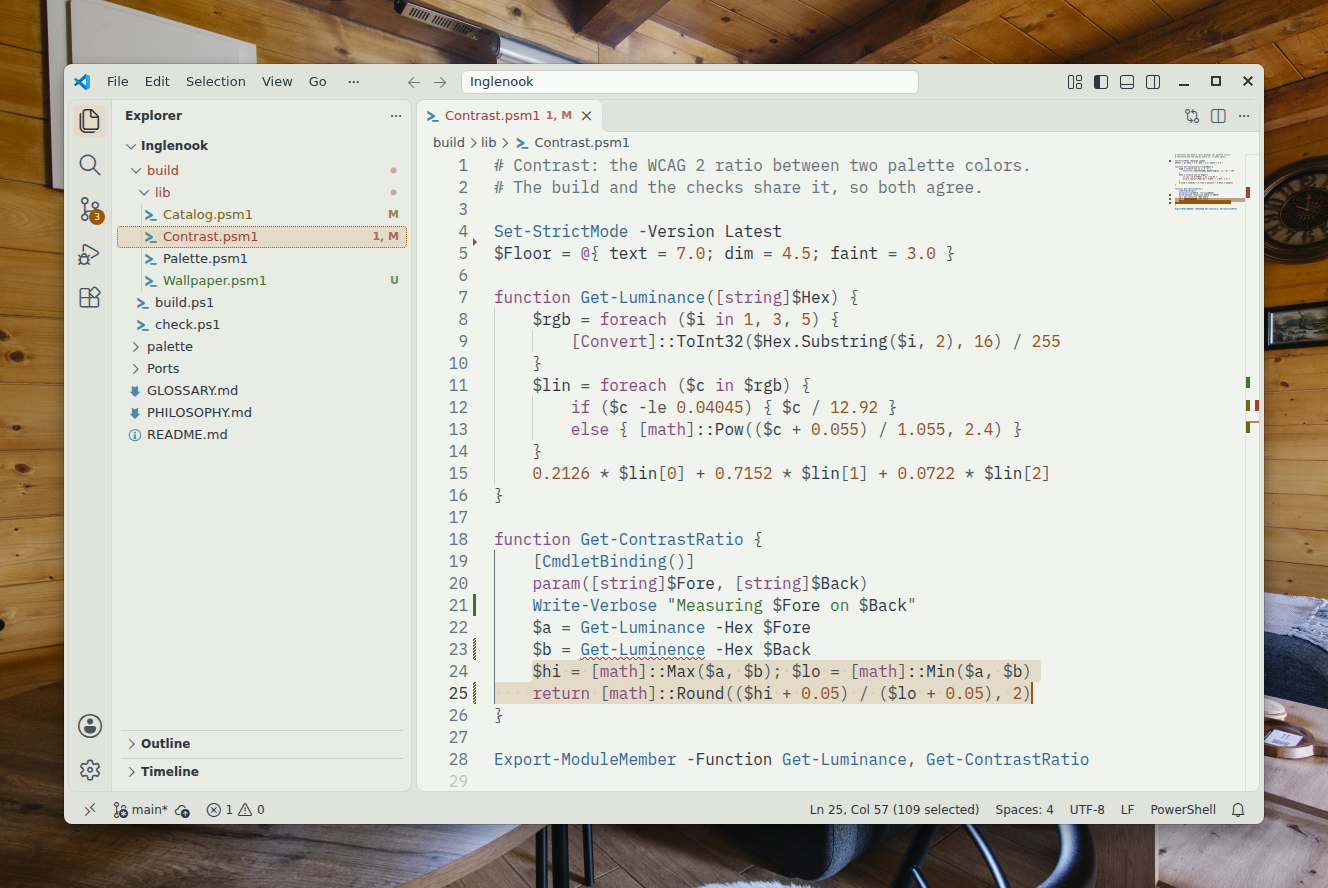
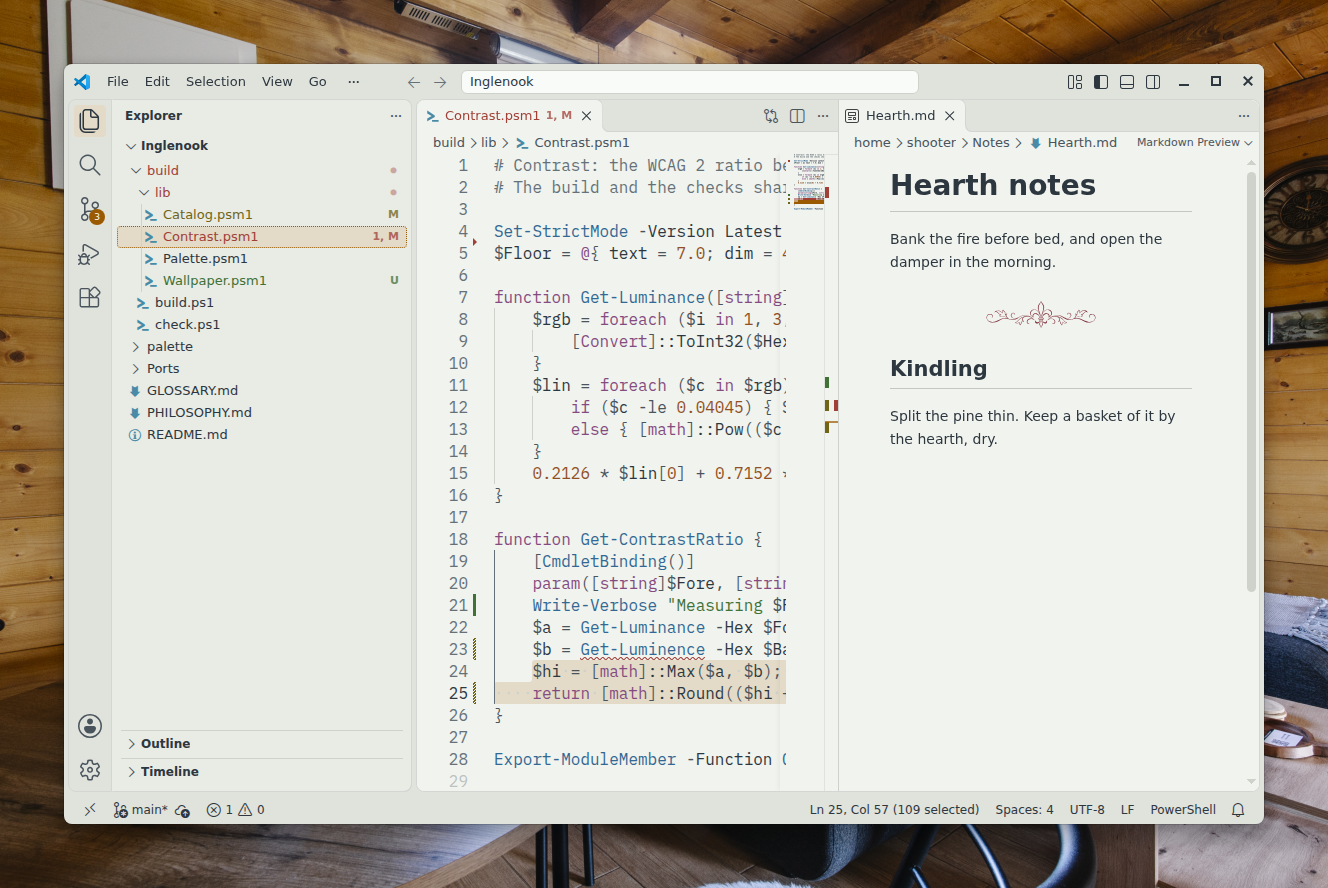
VS Code: draw the Markdown preview's horizontal rule as the divider
Each extension contributes markdown.previewStyles: media/markdown.css
masks divider.svg in oxblood, scoped to the variant's theme id. The
shots now show a note in the Markdown preview beside the code.

Part of #114, for #120.

diff --git a/build/photograph/scenes/editor/vscode/preview-scene/extension.js b/build/photograph/scenes/editor/vscode/preview-scene/extension.js
@@ -1,0 +1,27 @@
+// Opens ~/Notes/Hearth.md in the Markdown preview beside the code (see ../stage.sh).
+// Waits for the editor scene's file to be the active editor, so the preview opens to its
+// right, and keeps the focus on it, so the window title still names that file.
+const vscode = require('vscode');
+const os = require('os');
+const path = require('path');
+
+const FILE = 'Contrast.psm1';
+const NOTE = path.join(os.homedir(), 'Notes', 'Hearth.md');
+
+function isScene(editor) {
+  return editor && path.basename(editor.document.uri.fsPath) === FILE;
+}
+
+exports.activate = function (context) {
+  let done = false;
+  const open = async () => {
+    if (done) return;
+    done = true;
+    await vscode.commands.executeCommand('vscode.openWith', vscode.Uri.file(NOTE), 'vscode.markdown.preview.editor',
+      { viewColumn: vscode.ViewColumn.Beside, preserveFocus: true });
+  };
+  if (isScene(vscode.window.activeTextEditor)) { open(); return; }
+  context.subscriptions.push(vscode.window.onDidChangeActiveTextEditor(e => { if (isScene(e)) open(); }));
+};
+
+exports.deactivate = function () {};

diff --git a/Ports/vscode/template/media/markdown.css b/Ports/vscode/template/media/markdown.css
@@ -1,0 +1,12 @@
+/* The Markdown preview: a horizontal rule is drawn as the divider, in oxblood.
+   Only while this theme is the active one. */
+body[data-vscode-theme-id="{{variant.name}}"] hr {
+  display: block;
+  height: 1.9rem;
+  width: min(13rem, 70%);
+  margin: 28px auto;
+  border: 0;
+  background: {{oxblood}};
+  -webkit-mask: url("divider.svg") center / contain no-repeat;
+  mask: url("divider.svg") center / contain no-repeat;
+}

diff --git a/Ports/vscode/dist/night/media/markdown.css b/Ports/vscode/dist/night/media/markdown.css
@@ -1,0 +1,12 @@
+/* The Markdown preview: a horizontal rule is drawn as the divider, in oxblood.
+   Only while this theme is the active one. */
+body[data-vscode-theme-id="Inglenook Night"] hr {
+  display: block;
+  height: 1.9rem;
+  width: min(13rem, 70%);
+  margin: 28px auto;
+  border: 0;
+  background: #b66f75;
+  -webkit-mask: url("divider.svg") center / contain no-repeat;
+  mask: url("divider.svg") center / contain no-repeat;
+}

diff --git a/Ports/vscode/dist/day/media/markdown.css b/Ports/vscode/dist/day/media/markdown.css
@@ -1,0 +1,12 @@
+/* The Markdown preview: a horizontal rule is drawn as the divider, in oxblood.
+   Only while this theme is the active one. */
+body[data-vscode-theme-id="Inglenook Day"] hr {
+  display: block;
+  height: 1.9rem;
+  width: min(13rem, 70%);
+  margin: 28px auto;
+  border: 0;
+  background: #7e2e39;
+  -webkit-mask: url("divider.svg") center / contain no-repeat;
+  mask: url("divider.svg") center / contain no-repeat;
+}

diff --git a/Ports/vscode/MAPPING.md b/Ports/vscode/MAPPING.md
@@ -259,6 +259,13 @@ Bold, italic, headings and strikethrough set a font style only.
 | `number` | `literal` |
 | `operator` | `dim` |
 
+## Ornaments
+
+This port uses ornaments (ADR 0010): it is installed as a packaged extension.
+
+- **Markdown preview divider.** Each extension contributes `markdown.previewStyles` ([Markdown extension guide](https://code.visualstudio.com/api/extension-guides/markdown-extension#changing-the-look-of-the-markdown-preview-with-css)): `media/markdown.css` draws `hr` as `divider.svg` from `assets/ornaments/`, masked in `oxblood`, the same as `.guide hr` on the preview site. Every rule is scoped to `body[data-vscode-theme-id="<variant name>"]` ([webview theming](https://code.visualstudio.com/api/extension-guides/webview#theming-webview-content)), so the divider shows only while that variant is the active theme; with any other theme the preview keeps its plain rule.
+- `template/media/divider.svg.ornament` names the ornament, and the build copies it into `dist/<variant>/media/divider.svg`, so the extension carries its own copy and `vsce` packages it.
+
 ## Gaps and trade-offs
 
 - **Solid highlights.** The reference asks for the inactive selection, selection and word highlights, find match highlights, the find range, range and hover highlights, diff and merge line backgrounds, and the overview ruler marks not to be opaque, so decorations under them show through. Inglenook is solid (washes are solid by design), so where two of them overlap, the upper one hides the lower. The current line and range highlights are solid `raised`, where every syntax color still passes the floor for running text.
@@ -286,7 +293,7 @@ Bold, italic, headings and strikethrough set a font style only.
 - **apply** runs Install steps 3 to 5 (`npx @vscode/vsce package` in each `dist/` folder) with `--out "$HOME"`, since the repo is read-only in the container. Steps 6 to 8 are the README's terminal form, `code --install-extension`, for both VSIX files.
 - **Scripted stand-ins, not tested by hand:** Install step 9 (pick the theme with **Ctrl+K** **Ctrl+T**) and **Set the font** (two lines in the settings editor) are one line that writes `settings.json` with the font lines and `workbench.colorTheme` set to the variant's theme label, read from its `package.json`.
 - **Not tested:** **Install without Node.js**, and **Switch between Day and Night** (`window.autoDetectColorScheme` needs a desktop that reports its mode).
-- **stage** runs the scene's `prepare.sh`, then adds settings that change no color: self-update, extension updates, recommendations, telemetry, experiments, the welcome page, tips, workspace trust, AI features, the secondary side bar and git autofetch off, a solid cursor, and `editor.fontSize` 16.
+- **stage** runs the scene's `prepare.sh`, then this port's own `vscode/stage.sh`, which copies a short note with a horizontal rule to `~/Notes/Hearth.md` (outside the workspace, so the Explorer is unchanged) and installs `preview-scene`, a tiny extension that opens the note in the Markdown preview beside `Contrast.psm1` without taking the focus. Then it adds settings that change no color: self-update, extension updates, recommendations, telemetry, experiments, the welcome page, tips, workspace trust, AI features, the secondary side bar and git autofetch off, a solid cursor, and `editor.fontSize` 16.
 - **launch** opens `~/Inglenook` with `--no-sandbox` (Chromium's sandbox cannot start in the container), `--password-store=basic` (no keyring prompt), `--disable-gpu`, and `--disable-partial-raster` with `--ui-disable-partial-swap` (whole-frame redraws, so takes match pixel for pixel).
 - **window** is matched by title, which names `Contrast.psm1` only once the scene extension has opened it.
 - **Frame.** VS Code on Linux draws its own title bar by default, so the shots show the port's `titleBar` colors and no Adwaita frame.

diff --git a/Ports/vscode/README.md b/Ports/vscode/README.md
@@ -51,8 +51,8 @@ On macOS, use **Cmd** where these steps say **Ctrl**.
 
 Files to use:
 
-- Inglenook Day: `dist/day/` (`package.json`, `themes/inglenook-day-color-theme.json`, `LICENSE`)
-- Inglenook Night: `dist/night/` (`package.json`, `themes/inglenook-night-color-theme.json`, `LICENSE`)
+- Inglenook Day: `dist/day/` (`package.json`, `themes/inglenook-day-color-theme.json`, `media/`, `LICENSE`)
+- Inglenook Night: `dist/night/` (`package.json`, `themes/inglenook-night-color-theme.json`, `media/`, `LICENSE`)
 
 ### Install without Node.js
 

diff --git a/build/photograph/scenes/editor/vscode/Hearth.md b/build/photograph/scenes/editor/vscode/Hearth.md
@@ -1,0 +1,9 @@
+# Hearth notes
+
+Bank the fire before bed, and open the damper in the morning.
+
+---
+
+## Kindling
+
+Split the pine thin. Keep a basket of it by the hearth, dry.
